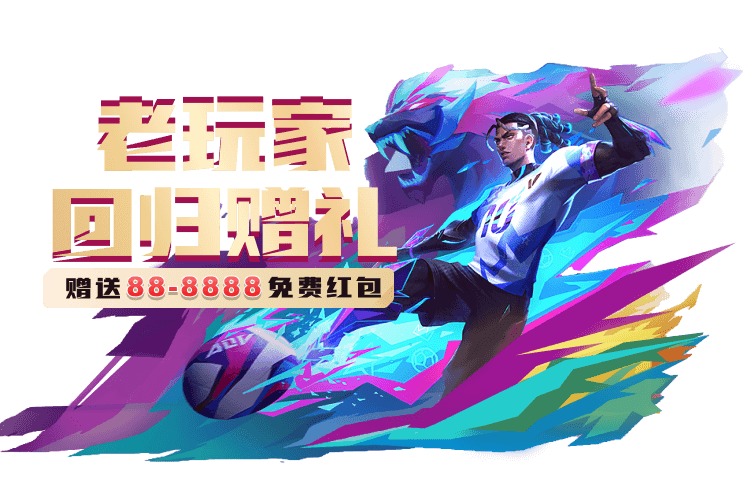
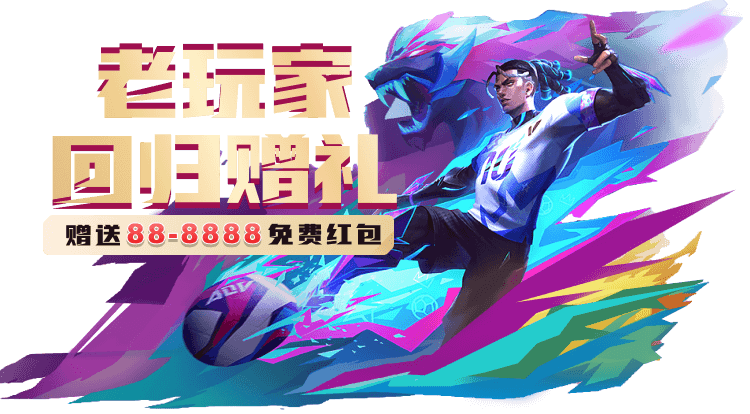
feat: [lh landing v8] Amend text

diff --git a/lh-landing-v8/index.html b/lh-landing-v8/index.html
@@ -34,7 +34,7 @@
           </a>
 
           <div class="banner-mid-section">
-            <img src="imgs/banner-3.png" alt="" width="100%" />
+            <img src="imgs/banner-333.png" alt="" width="100%" />
           </div>
 
           <a href="https://csweb.mh98q4u1yq.com/?partnerCode=LHCS&way=WEB&lang=zh-CN" target="_blank">
@@ -43,14 +43,14 @@
         </div>
 
         <div class="contact-wrapper">
-          <img src="./imgs/contact-title.png" alt="" width="100%" />
+          <img src="./imgs/contact-title.png" alt="" width="100%" style="padding:10px 10px 5px 10px;" />
           <div class="contact-content">
             <div class="contact-group">
               <div class="contact-item w-50">
                 <div class="icon">
                   <img src="./imgs/qq-icon.png" alt="" />
                 </div>
-                <div style="display: flex; flex-direction: column; align-items: flex-start">
+                <div>
                   <span class="title">转运群 QQ群</span>
                   <span>706924666</span>
                 </div>
@@ -59,7 +59,7 @@
                 <div class="icon">
                   <img src="./imgs/qq-icon.png" alt="" />
                 </div>
-                <div style="display: flex; flex-direction: column; align-items: flex-start">
+                <div>
                   <span class="title">稳赚不赔 QQ群</span>
                   <span>941446940</span>
                 </div>
@@ -67,7 +67,7 @@
             </div>
 
             <div class="contact-item w-100">
-              <div class="contact-group" style="justify-content: flex-start">
+              <div class="contact-group">
                 <div class="icon">
                   <img src="./imgs/service-icon.png" alt="" />
                 </div>
@@ -81,7 +81,7 @@
               </a>
             </div>
             <div class="contact-item w-100">
-              <div class="contact-group" style="justify-content: flex-start">
+              <div class="contact-group">
                 <div class="icon">
                   <img src="./imgs/service-icon.png" alt="" />
                 </div>
@@ -94,20 +94,21 @@
                 <img src="./imgs/contact-btn.png" alt="" />
               </a>
             </div>
-            <a href="https://vo56.cc" target="_blank"><img src="./imgs/contact-btn1.png" width="100%" /></a>
+            <a href="https://vo56.cc" target="_blank"><img src="./imgs/contact-download.png" width="100%" /></a>
           </div>
         </div>
-      </div>
-    </div>
 
-    <div class="main-sticky-btn" id="contact-btn">
-      <img src="./imgs/contact.png" alt="" width="100%" />
+        <div class="main-sticky-btn" id="contact-btn">
+          <img src="./imgs/contact.png" alt="" width="100%" />
+        </div>
+      </div>
     </div>
 
     <script type="text/javascript">
       document.addEventListener("DOMContentLoaded", function () {
         const contactBtn = document.getElementById("contact-btn");
         const fullWindow = document.querySelector(".full-container");
+        
         contactBtn.addEventListener("click", () => {
           fullWindow.scrollTo({
             top: document.body.scrollHeight,

diff --git a/lh-landing-v8/css/styles.css b/lh-landing-v8/css/styles.css
@@ -59,6 +59,7 @@ a {
 
 .top-bg img {
   width: 100%;
+  padding: 20px 20px 0 20px;
 }
 
 .top-logo {
@@ -89,10 +90,10 @@ a {
 }
 
 .banner-wrapper {
-  padding: 0 16px;
+  padding: 0 20px;
   display: flex;
   flex-direction: column;
-  gap: 16px;
+  gap: 10px;
 }
 
 .pop-btns-wrapper {
@@ -220,29 +221,24 @@ a {
 .contact-wrapper {
   background: #0D193D;
   border: 1px solid #8E7878;
-  border-radius: 16px;
-  margin: 16px;
-  padding-top: 16px;
+  border-radius: 8px;
+  margin: 20px;
+  padding-top: 0px;
 }
 
 .contact-content {
-  padding: 16px;
+  padding: 10px;
   display: flex;
   flex-wrap: wrap;
   justify-content: space-between;
-  gap: 12px;
+  gap: 10px;
 }
 
 .contact-group {
   display: flex;
   justify-content: space-between;
   align-items: center;
-  gap: 7px;
-  width: 100%;
-}
-
-.contact-group .contact-item{
-  flex: 1;
+  gap: 10px;
 }
 
 .contact-item {
@@ -253,12 +249,8 @@ a {
   font-size: 0.9em;
   color: white;
   gap: 8px;
-  justify-content: flex-start;
+  justify-content: space-between;
   align-items: center;
-}
-
-.contact-item .title{
-  font-size: 0.7em;
 }
 
 .contact-item .icon {
@@ -267,7 +259,6 @@ a {
 }
 
 .contact-item .service-icon {
-  margin-left: auto;
   width: 100px;
 }
 
@@ -318,12 +309,10 @@ a {
   width: 100%;
   position: sticky;
   bottom: 0px;
-  left: 0%;
+  left: 0px;
   right: 0px;
   font-size: 18px;
   font-weight: bold;
-  max-width: 550px;
-  margin: auto;
   color: #ffffff;
   letter-spacing: 2px;
 }
